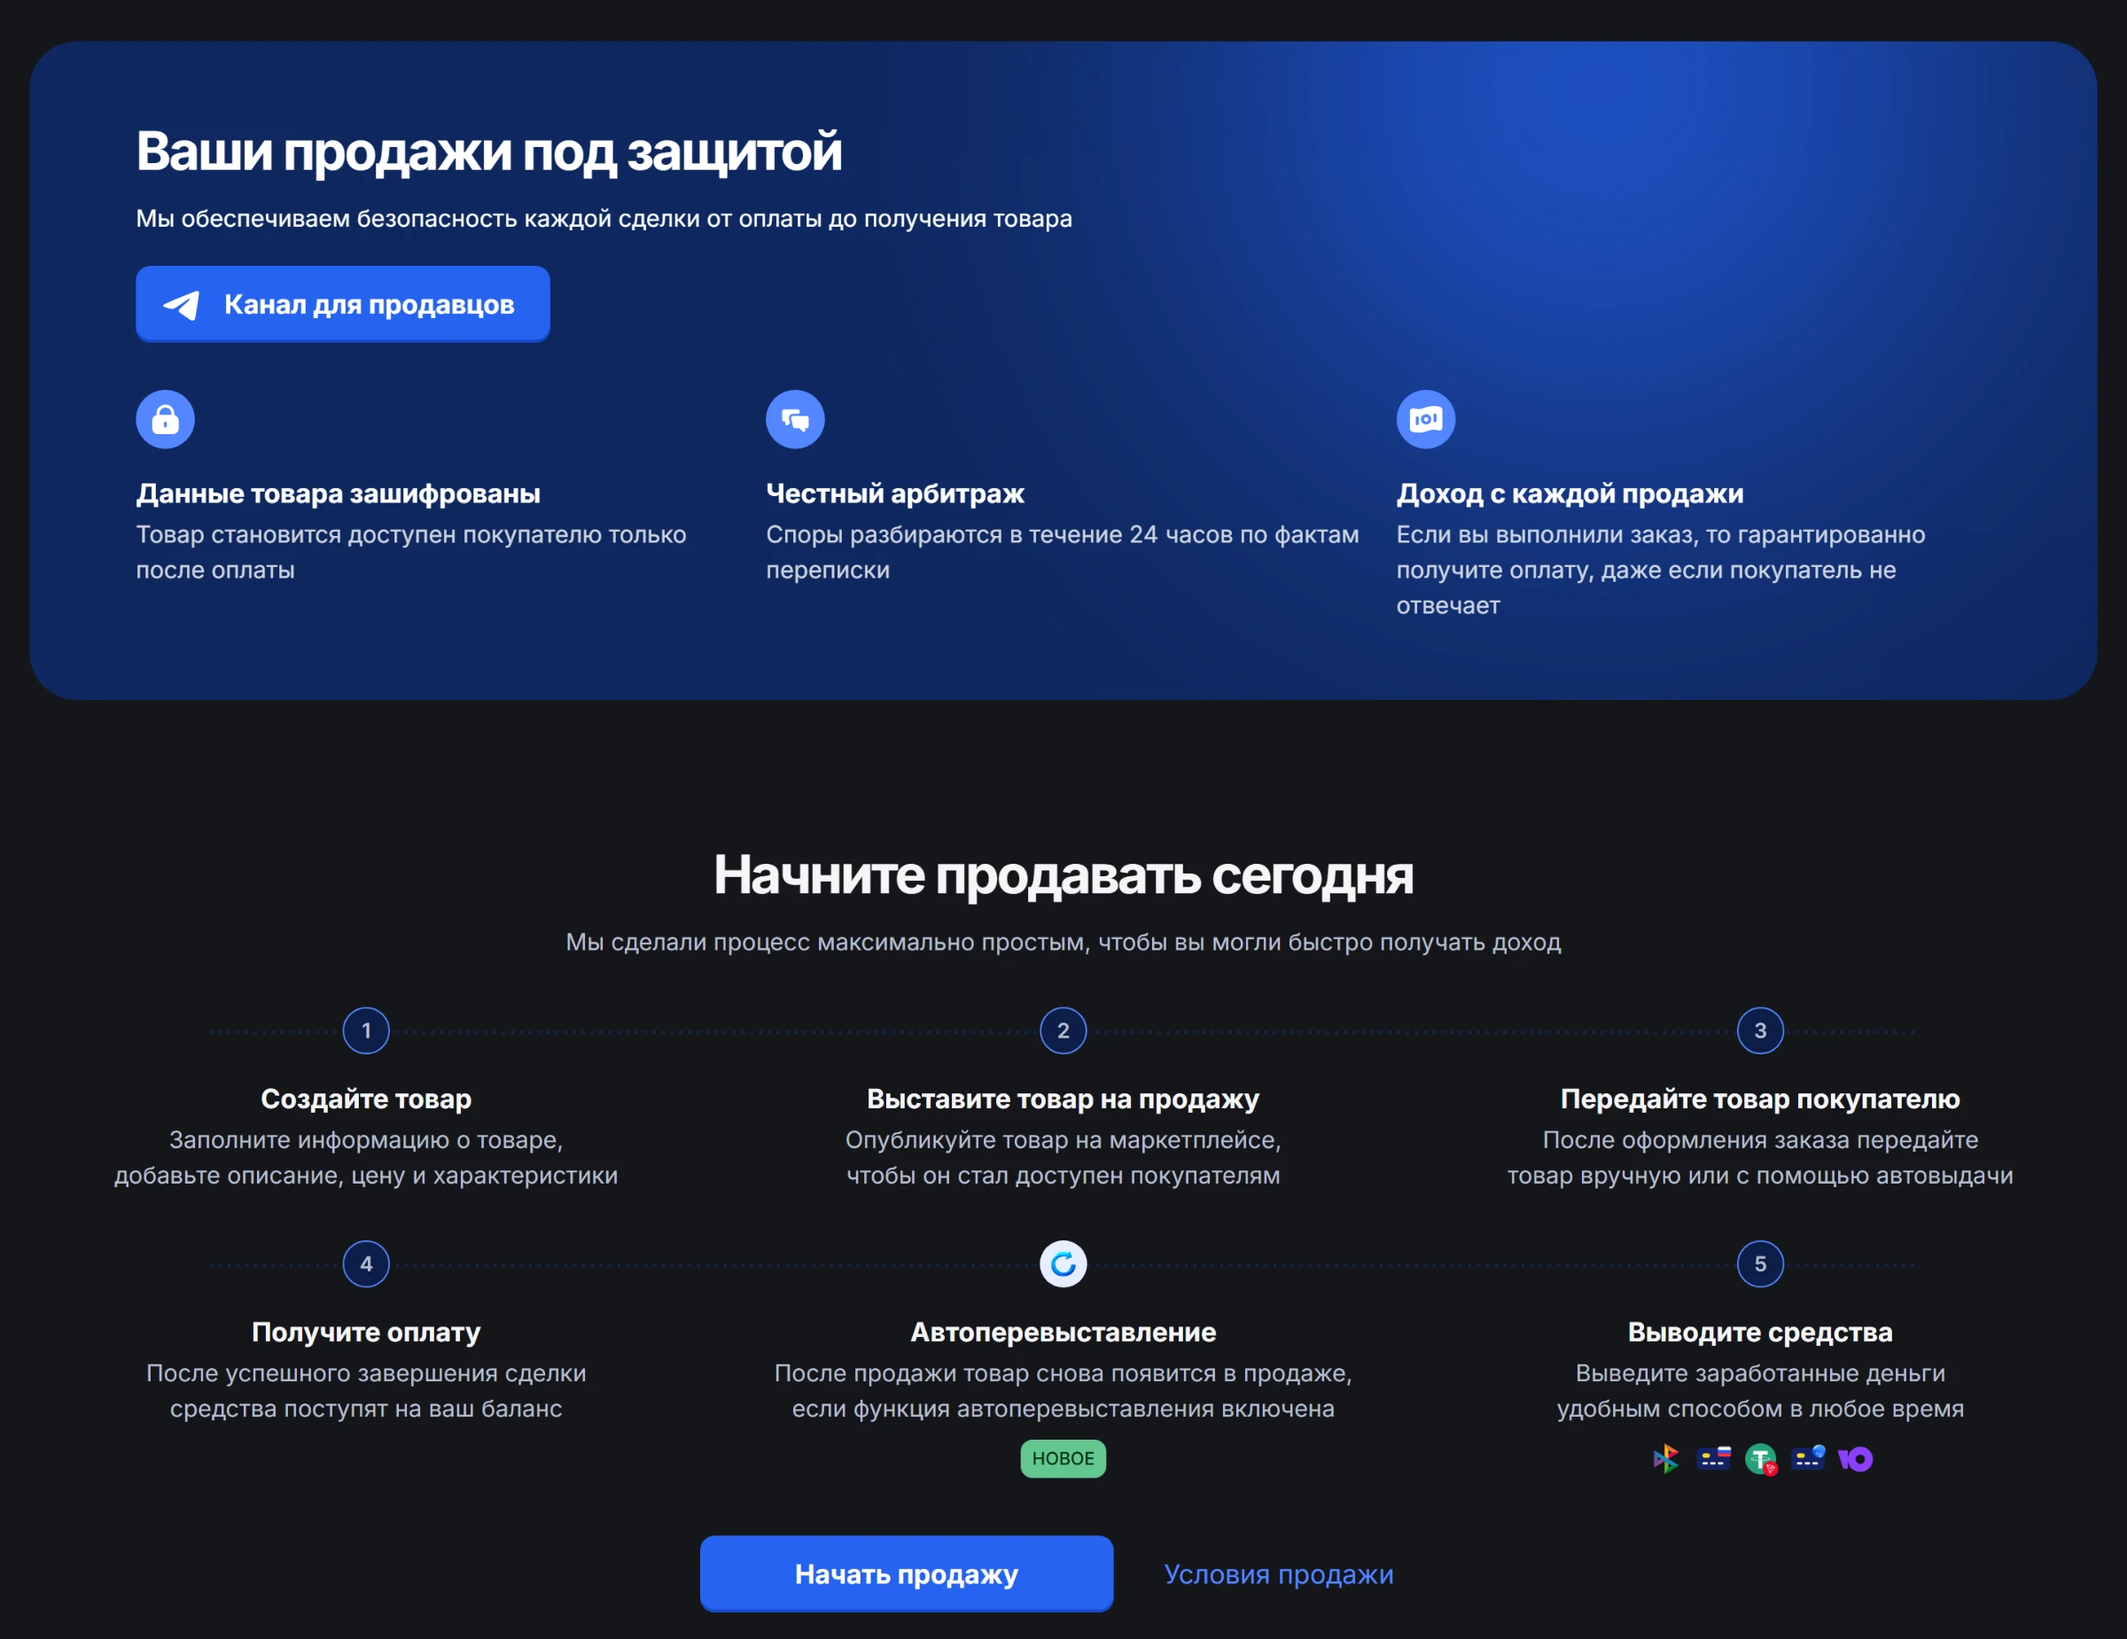
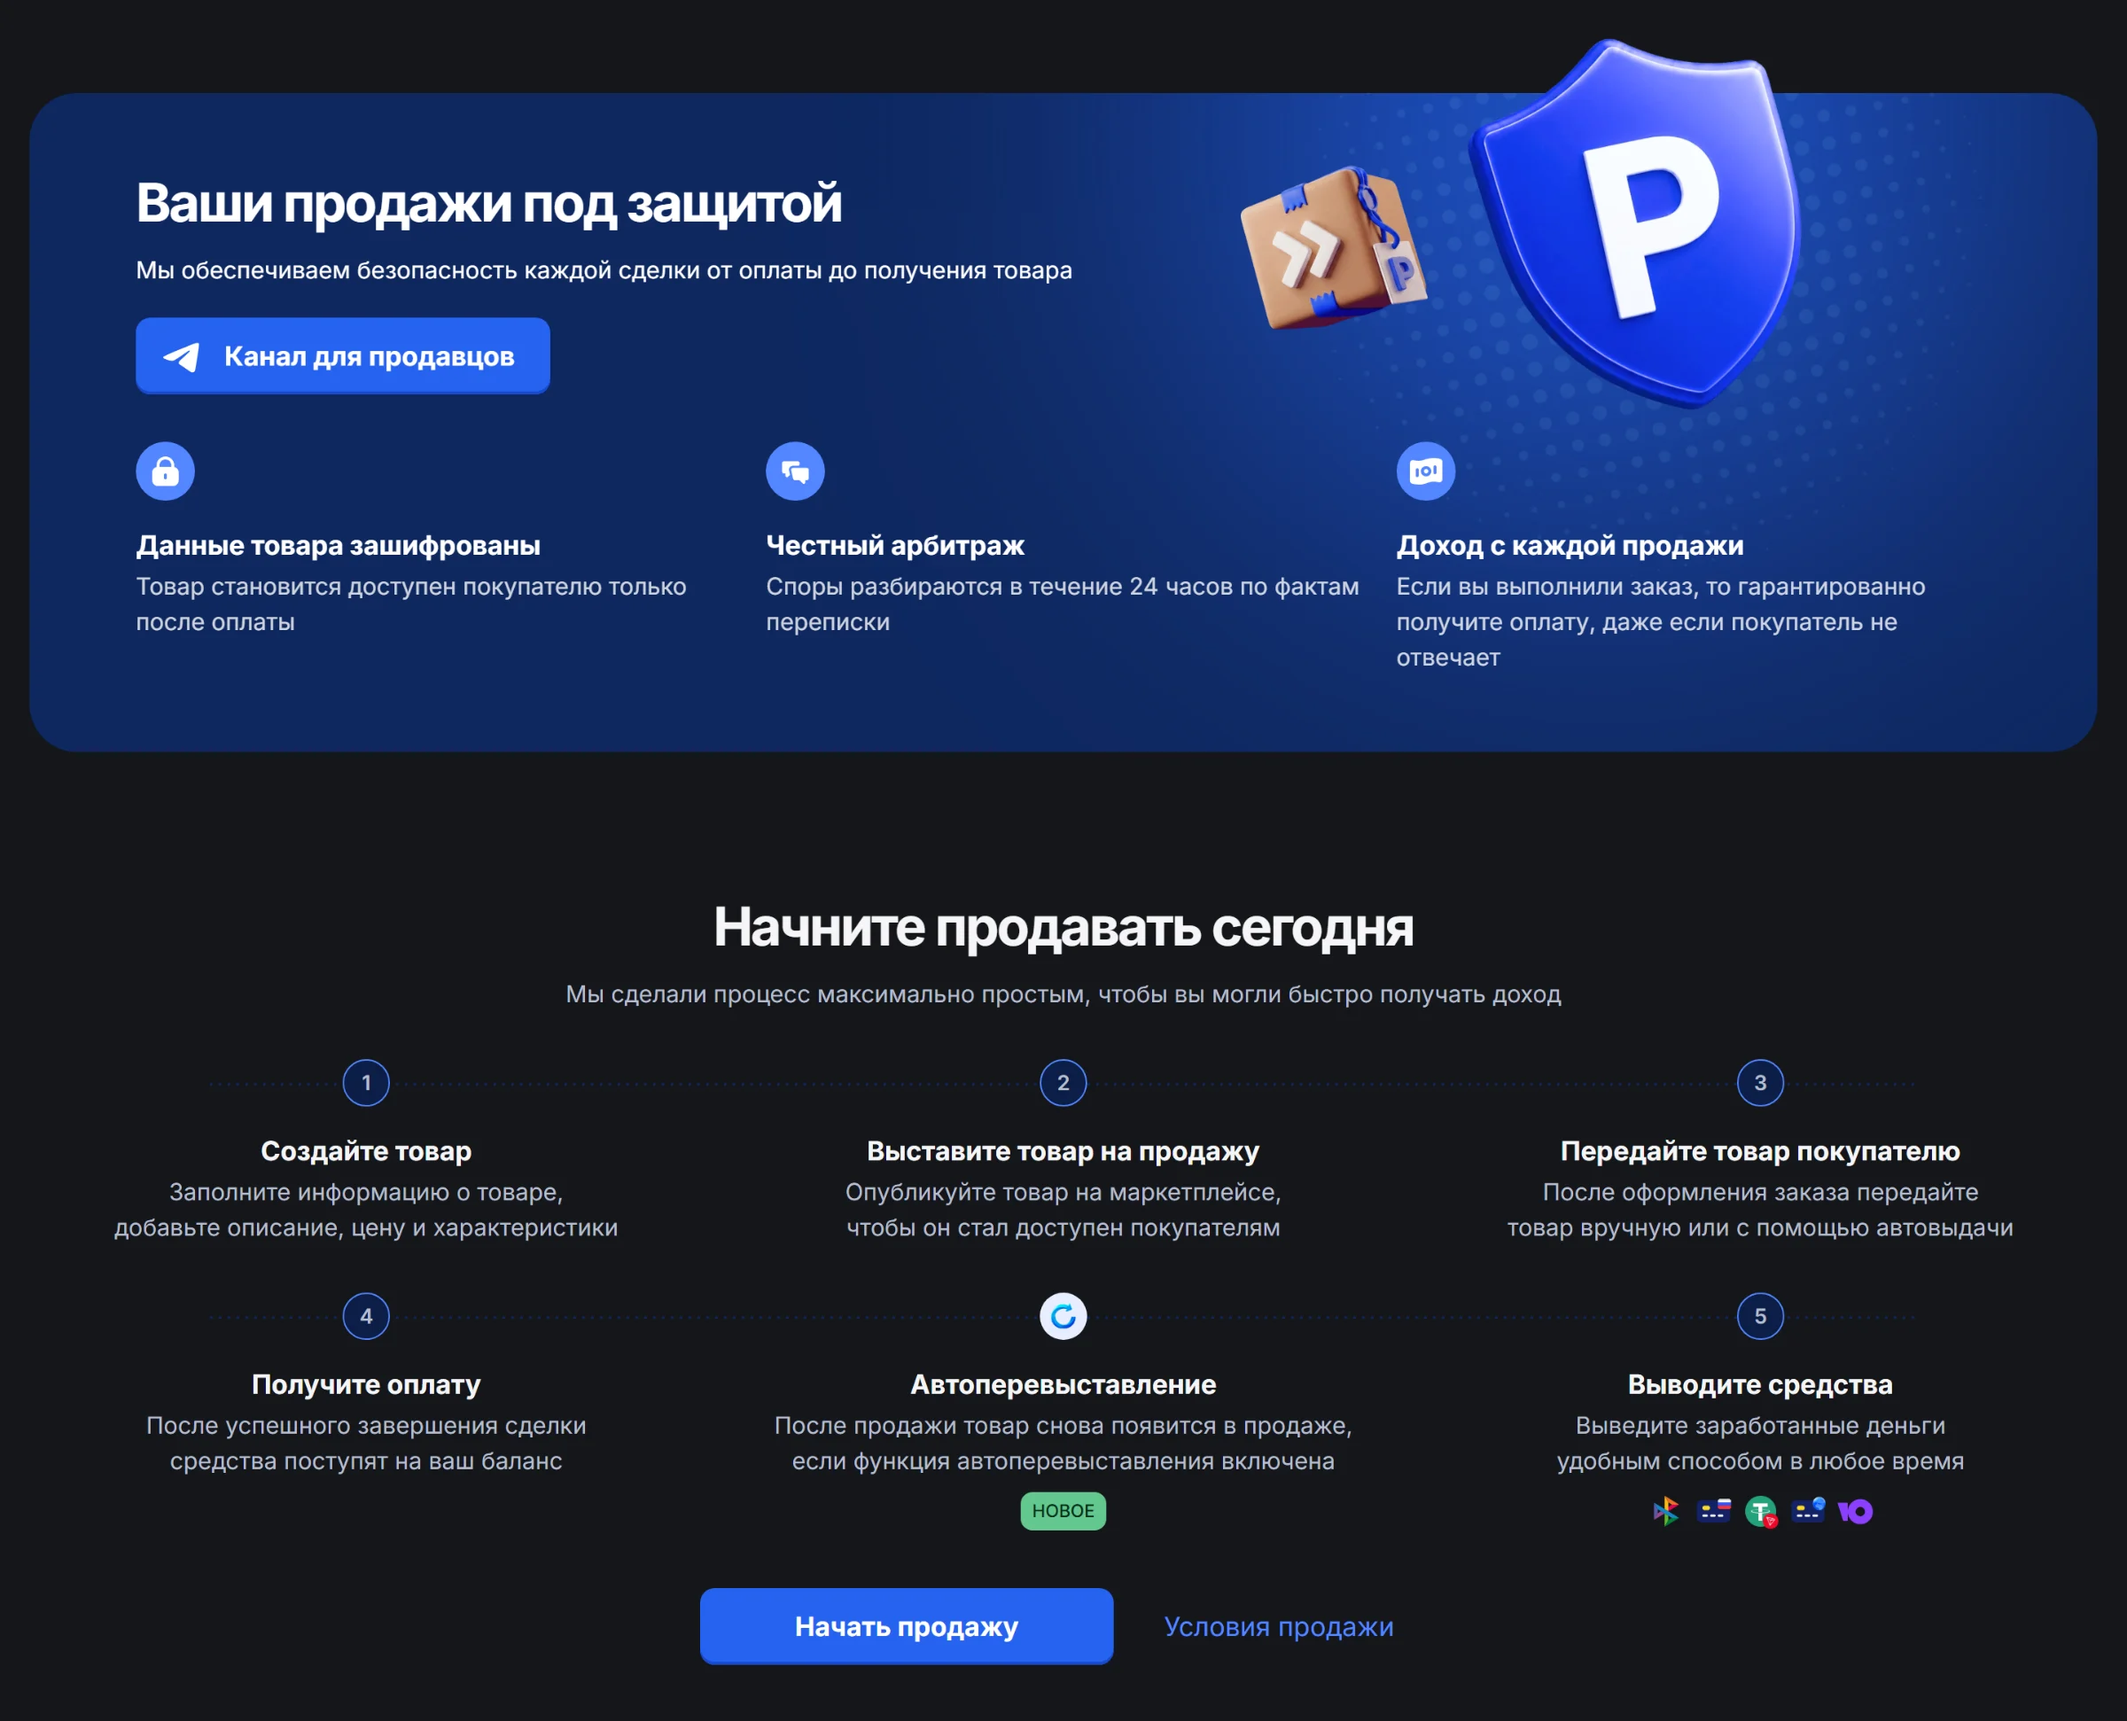
Whole-width home previews, full Playerok seller shots
- Home previews are now 2:1 screens at full width, so headers and logos
  are never cut; design system uses the isometric component composition
- Rail Ninja and Firebird previews: stray dot and mouse cursor removed
- Playerok seller landing re-shot from the live page with its hero,
  calculator and security illustrations loaded

diff --git a/assets/css/site.css b/assets/css/site.css
@@ -234,8 +234,8 @@ html:has(dialog[open]) { overflow: hidden; }
 .case__facts div { display: grid; grid-template-columns: 4.5rem minmax(0, 1fr); gap: .5rem; align-items: baseline; padding: .4rem 0; border-top: 1px solid var(--line); }
 .case__facts dd { font-size: .9375rem; }
 .more { justify-self: start; margin-top: .25rem; }
-/* One preview per case: a real screen set on the same plate, cut off at the bottom edge */
-.shot { display: block; aspect-ratio: 16 / 10; padding: 6% 6% 0; background: var(--plate); overflow: hidden; }
+/* One preview per case: a real 2:1 screen on the same plate, full width so headers and logos stay whole */
+.shot { display: block; aspect-ratio: 2 / 1; padding: 6% 6% 0; background: var(--plate); overflow: hidden; }
 .shot img {
   width: 100%; height: calc(100% + .75rem); object-fit: cover; object-position: top;
   border-radius: 6px 6px 0 0; box-shadow: 0 0 0 1px var(--img-edge), 0 .75rem 2.5rem rgb(0 0 0 / .1);
@@ -416,7 +416,6 @@ html:lang(ja) .label, html:lang(ja) dt, html:lang(ja) .board__head, html:lang(ja
   }
   .pair::-webkit-scrollbar { display: none; }
   .pair > figure { flex: 0 0 86%; scroll-snap-align: start; }
-  .shot { padding: 7% 7% 0; }
 }
 @media (prefers-reduced-motion: reduce) {
   html { scroll-behavior: auto; }
